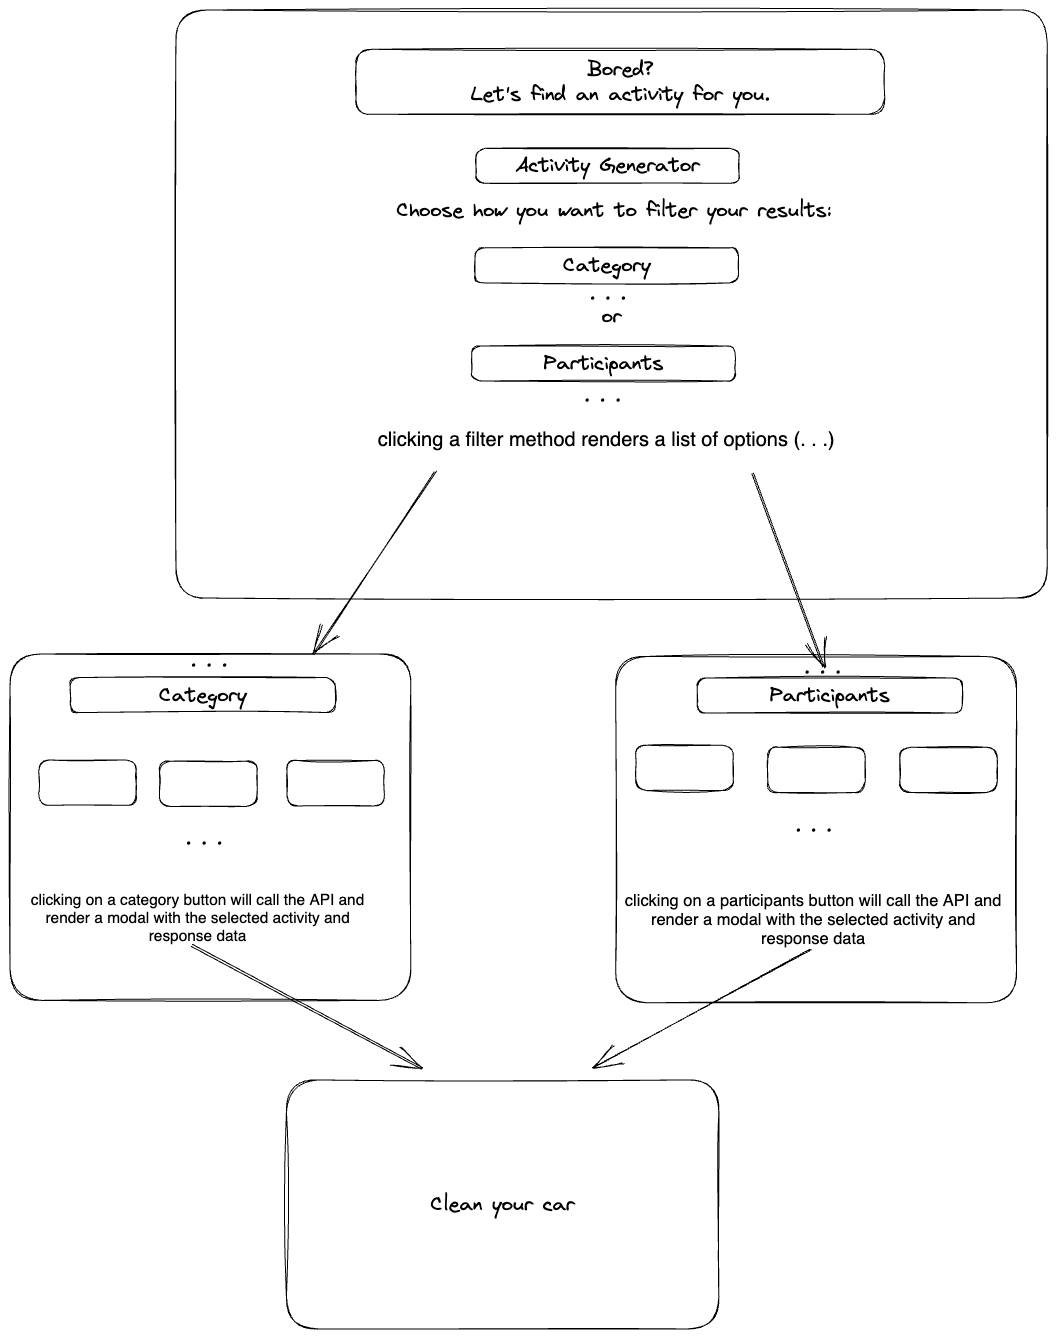
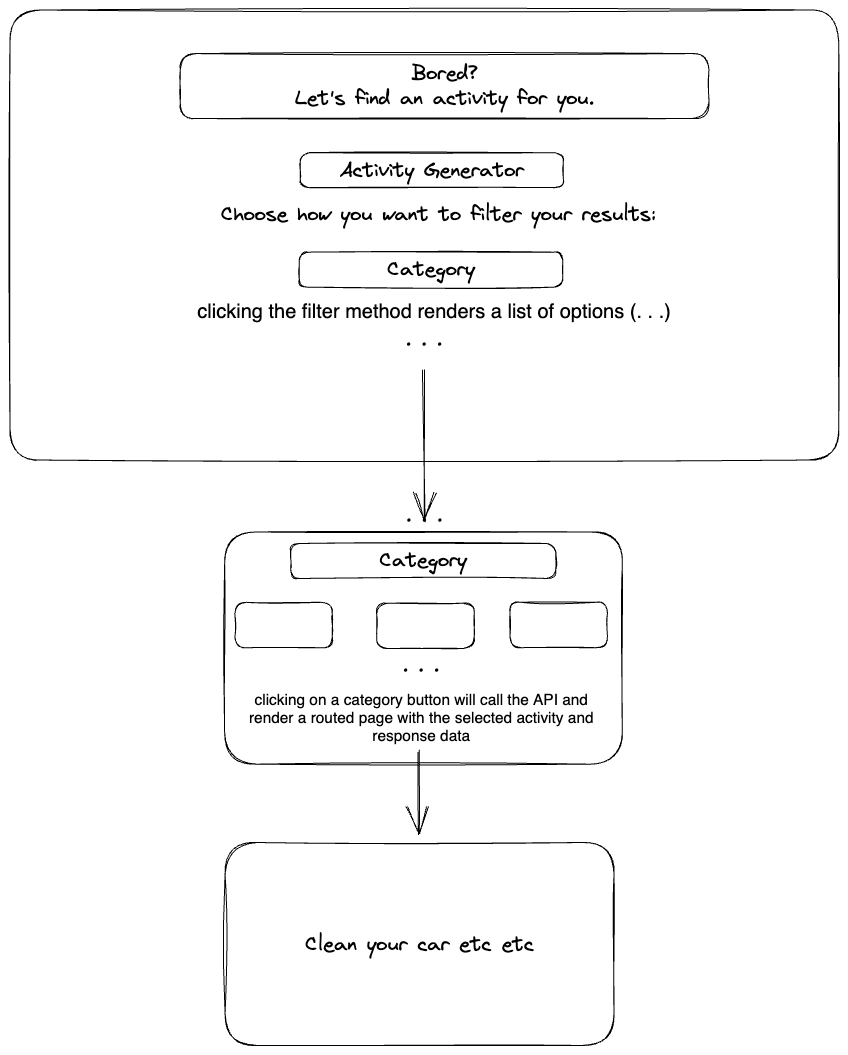
updated README with notes on development process

diff --git a/README.md b/README.md
@@ -6,3 +6,20 @@ This was my original design for the project. After delving further into the API 
 ![updated wireframe](/images/newWireframe.png)
 
 ## Development Process
+The API I am utilizing in this project can be found here:
+[Bored API](https://www.boredapi.com/documentation).
+
+The functional goal for the project was to have a list of activity categories the user could choose. When one is chosen,  the API is called and returns a response object that gives the user an activity to do.
+
+The API's response object includes:
+- the description of the activity
+- the accessibility factor of the activity (how possible an event is to do)
+- the type (category) of activity
+- the numbers of participants the activity could involve
+- the price factor
+- the activity's unique key (could be used in queries)
+
+I chose to display the description (i.e. the activity itself), the number of participants, the price (multiplied by 10 for a more clear output to the user), and the accessibility (also multiplied by 10). I omitted the type as it was selected by the user during the query. The key was also omitted since I did not feel it was relevant data to the user.
+
+Buttons for each type of activity are displayed on the filter page. The type names match the API query syntax to ensure when the user selects their desired category, the result is routed through a Component and rendered on the page; each type has its own Component page with the query by type hardcoded in the fetch.
+
